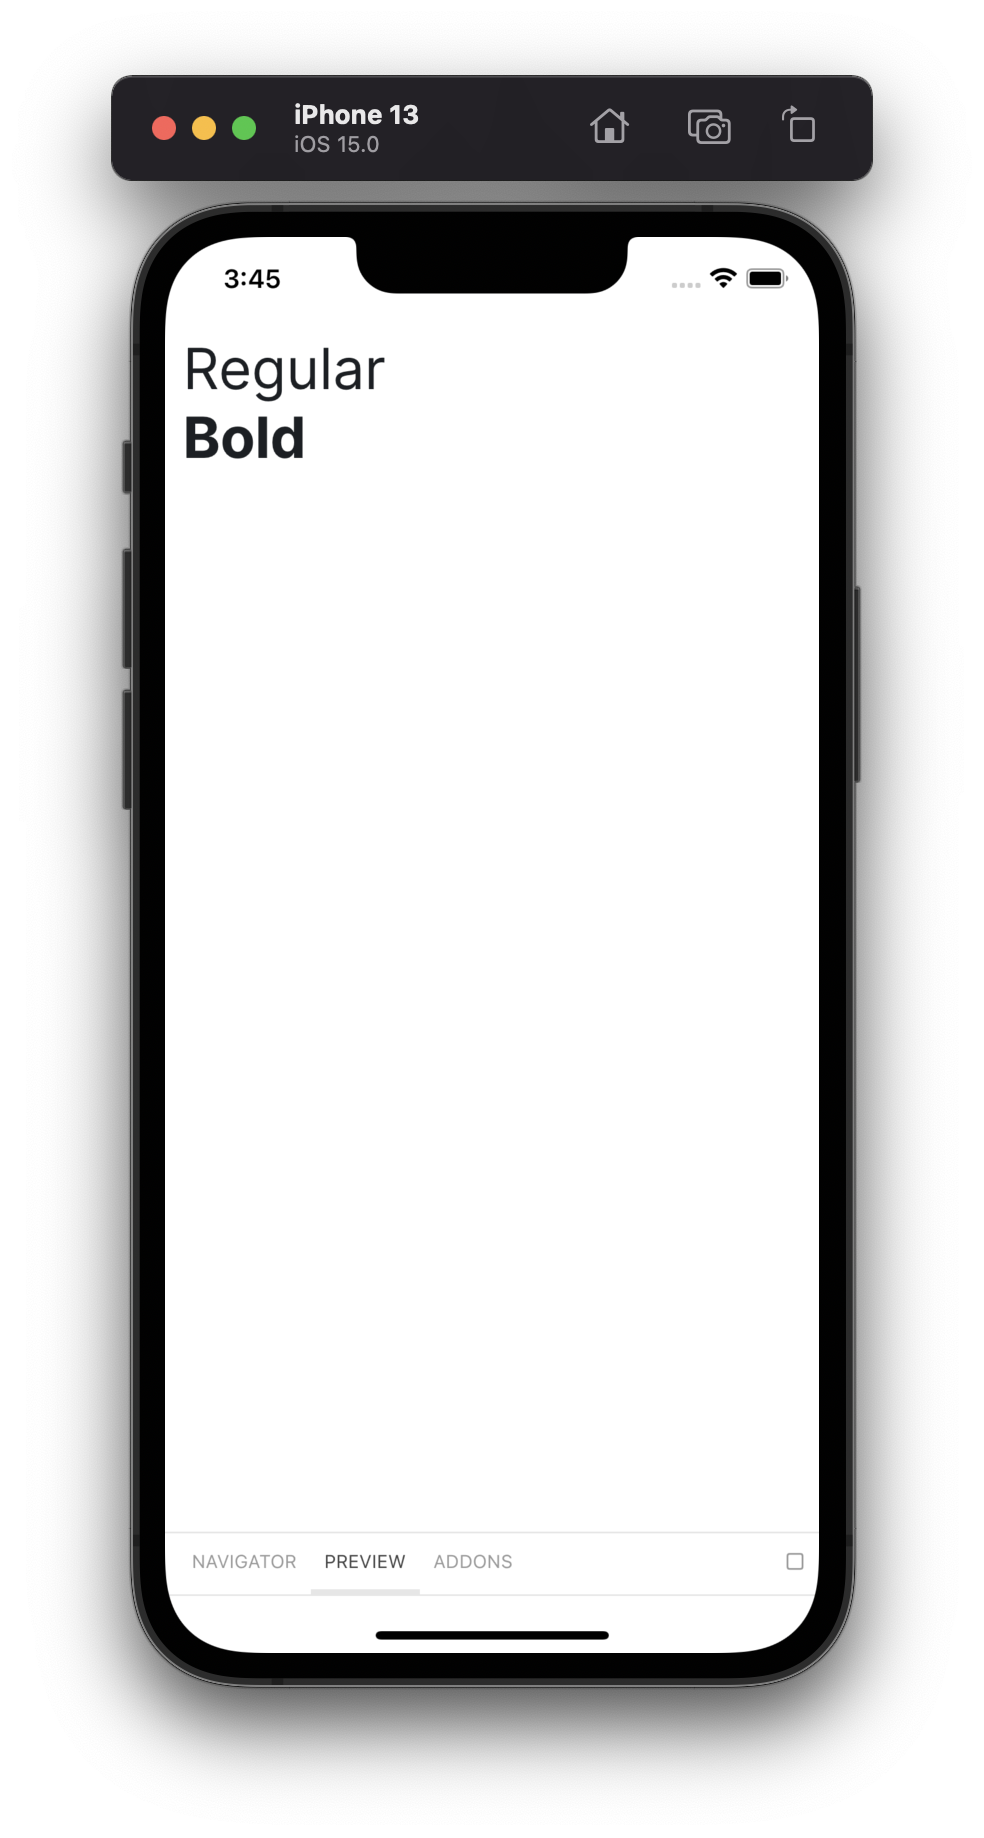
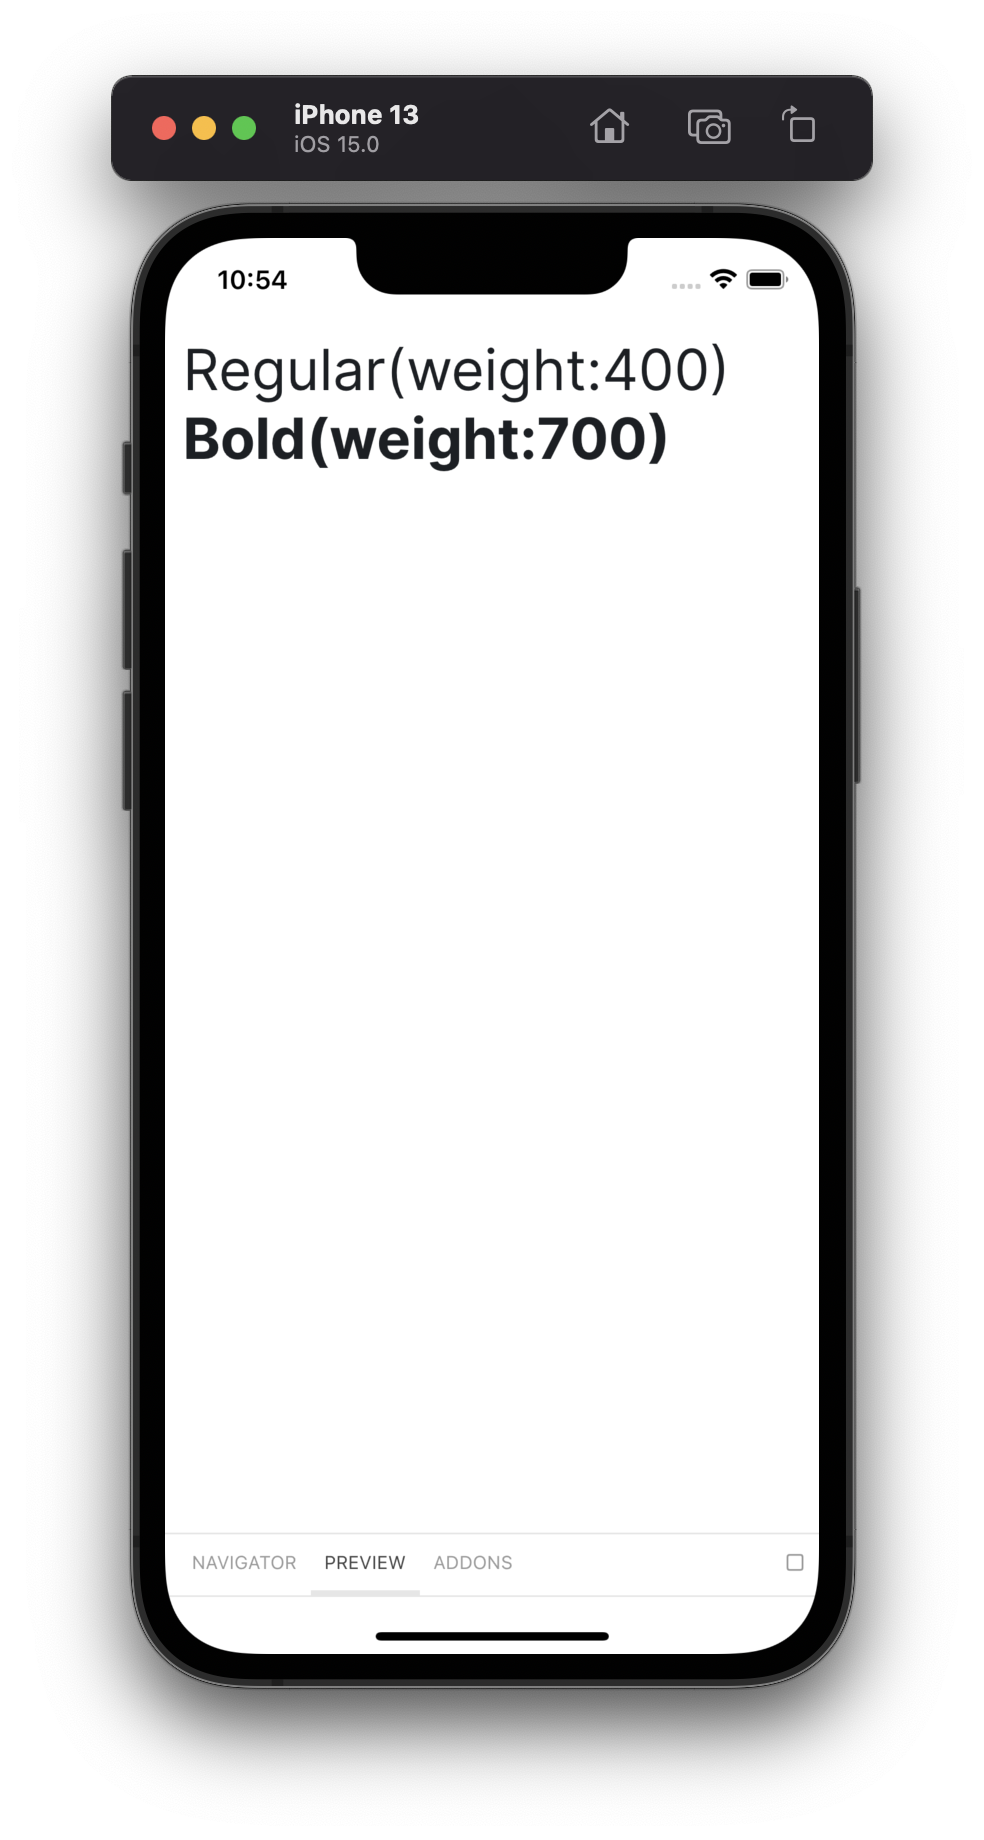
Updated typography stories and screenshots

diff --git a/storybook/stories/Typography.stories.js b/storybook/stories/Typography.stories.js
@@ -39,9 +39,18 @@ export const FontColors = () => {
       <Container backgroundColor="background.base">
         <LargeTitle color="font.white">White</LargeTitle>
       </Container>
+      <LargeTitle color="font.base">Base</LargeTitle>
       <LargeTitle>Primary</LargeTitle>
       <LargeTitle color="font.secondary">Secondary</LargeTitle>
       <LargeTitle color="font.danger">Danger</LargeTitle>
+      <LargeTitle color="font.grey100">Grey</LargeTitle>
+      <LargeTitle color="font.grey100">Grey 100</LargeTitle>
+      <LargeTitle color="font.grey200">Grey 200</LargeTitle>
+      <LargeTitle color="font.grey300">Grey 300</LargeTitle>
+      <LargeTitle color="font.grey400">Grey 400</LargeTitle>
+      <LargeTitle color="font.grey500">Grey 500</LargeTitle>
+      <LargeTitle color="font.grey600">Grey 600</LargeTitle>
+      <LargeTitle color="font.grey800">Grey 800</LargeTitle>
     </Container>
   );
 };
@@ -49,8 +58,8 @@ export const FontColors = () => {
 export const FontFamilies = () => {
   return (
     <Container>
-      <LargeTitle fontFamily="regular">Regular</LargeTitle>
-      <LargeTitle fontFamily="bold">Bold</LargeTitle>
+      <LargeTitle fontFamily="regular">Regular(weight:400)</LargeTitle>
+      <LargeTitle fontFamily="bold">Bold(weight:700)</LargeTitle>
     </Container>
   );
 };
